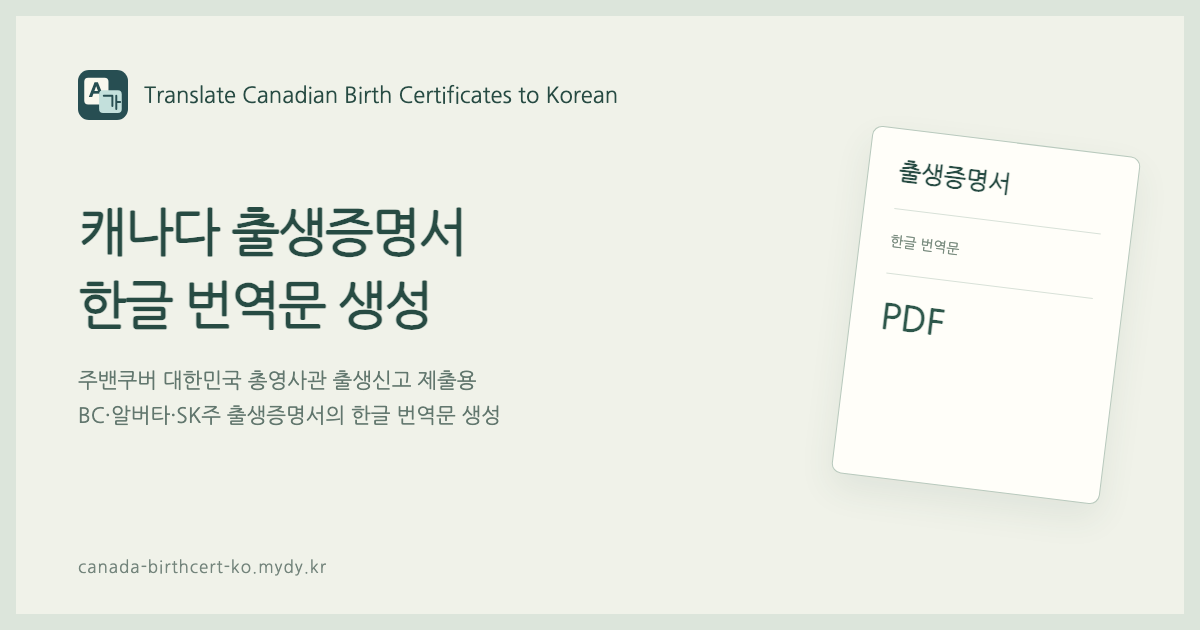
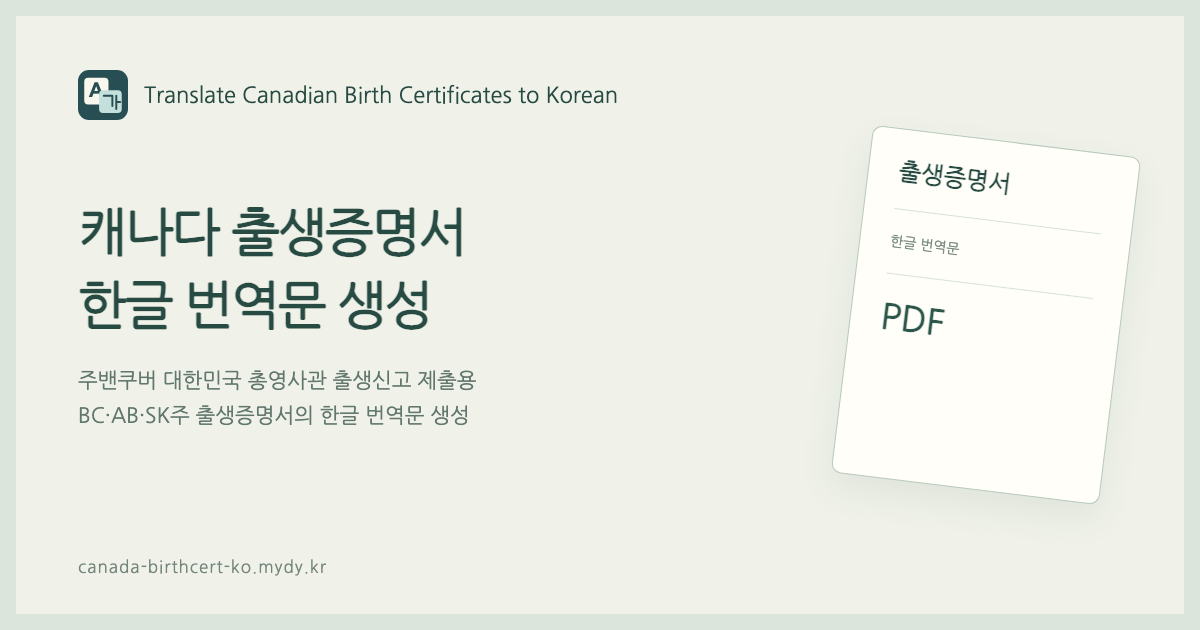
Use consistent province abbreviations in sharing metadata

Changed region(s): [[0.0925, 0.6333, 0.4317, 0.6937]]

diff --git a/index.html b/index.html
@@ -3,7 +3,7 @@
 <head>
   <meta charset="UTF-8">
   <meta name="viewport" content="width=device-width,initial-scale=1">
-  <title>캐나다 출생증명서 번역 | BC·알버타·SK 한글 번역문 PDF</title>
+  <title>캐나다 출생증명서 번역 | BC·AB·SK 한글 번역문 PDF</title>
   <meta name="description" content="주밴쿠버 대한민국 총영사관에 출생신고할 때 제출하는 캐나다 브리티시컬럼비아(BC)·알버타(AB)·서스캐처원(SK)주 출생증명서 한글 번역문 생성 사이트입니다. 한국어로 입력하고 무료로 PDF를 저장하세요.">
   <link rel="canonical" href="https://canada-birthcert-ko.mydy.kr/">
   <meta name="robots" content="index,follow,max-image-preview:large">
@@ -13,27 +13,27 @@
   <meta property="og:type" content="website">
   <meta property="og:locale" content="ko_KR">
   <meta property="og:site_name" content="Canada Birth KO">
-  <meta property="og:title" content="캐나다 출생증명서 번역 | BC·알버타·SK 한글 번역문 PDF">
+  <meta property="og:title" content="캐나다 출생증명서 번역 | BC·AB·SK 한글 번역문 PDF">
   <meta property="og:description" content="주밴쿠버 대한민국 총영사관에 출생신고할 때 제출하는 캐나다 브리티시컬럼비아(BC)·알버타(AB)·서스캐처원(SK)주 출생증명서 한글 번역문 생성 사이트입니다. 한국어로 입력하고 무료로 PDF를 저장하세요.">
   <meta property="og:url" content="https://canada-birthcert-ko.mydy.kr/">
-  <meta property="og:image" content="https://canada-birthcert-ko.mydy.kr/og-image.png?v=20261105">
+  <meta property="og:image" content="https://canada-birthcert-ko.mydy.kr/og-image.png?v=20261105-2">
   <meta property="og:image:type" content="image/png">
   <meta property="og:image:width" content="1200">
   <meta property="og:image:height" content="630">
-  <meta property="og:image:alt" content="BC·알버타·SK 캐나다 출생증명서 한글 번역문 생성 — 주밴쿠버 대한민국 총영사관 제출용">
+  <meta property="og:image:alt" content="BC·AB·SK 캐나다 출생증명서 한글 번역문 생성 — 주밴쿠버 대한민국 총영사관 제출용">
   <meta name="twitter:card" content="summary_large_image">
-  <meta name="twitter:title" content="캐나다 출생증명서 번역 | BC·알버타·SK 한글 번역문 PDF">
+  <meta name="twitter:title" content="캐나다 출생증명서 번역 | BC·AB·SK 한글 번역문 PDF">
   <meta name="twitter:description" content="주밴쿠버 대한민국 총영사관에 출생신고할 때 제출하는 캐나다 브리티시컬럼비아(BC)·알버타(AB)·서스캐처원(SK)주 출생증명서 한글 번역문 생성 사이트입니다. 한국어로 입력하고 무료로 PDF를 저장하세요.">
-  <meta name="twitter:image" content="https://canada-birthcert-ko.mydy.kr/og-image.png?v=20261105">
-  <meta name="twitter:image:alt" content="BC·알버타·SK 캐나다 출생증명서 한글 번역문 생성 — 주밴쿠버 대한민국 총영사관 제출용">
+  <meta name="twitter:image" content="https://canada-birthcert-ko.mydy.kr/og-image.png?v=20261105-2">
+  <meta name="twitter:image:alt" content="BC·AB·SK 캐나다 출생증명서 한글 번역문 생성 — 주밴쿠버 대한민국 총영사관 제출용">
   <script type="application/ld+json">
-  {"@context":"https://schema.org","@type":"WebApplication","name":"캐나다 출생증명서 한글 번역문 생성","alternateName":"Canada Birth KO","url":"https://canada-birthcert-ko.mydy.kr/","description":"주밴쿠버 대한민국 총영사관에 출생신고할 때 제출하는 캐나다 브리티시컬럼비아(BC)·알버타(AB)·서스캐처원(SK)주 출생증명서 한글 번역문 생성 사이트입니다. 한국어로 입력하고 무료로 PDF를 저장하세요.","applicationCategory":"UtilitiesApplication","operatingSystem":"Any","inLanguage":"ko","browserRequirements":"Requires JavaScript","image":"https://canada-birthcert-ko.mydy.kr/og-image.png?v=20261105","author":{"@type":"Person","name":"Daeyeol Ryu","url":"https://yoobato.com"},"isAccessibleForFree":true,"featureList":["BC·알버타·SK 출생증명서 한글 번역문 작성","브라우저 내 PDF 생성","Letter PDF 미리보기·다운로드"]}
+  {"@context":"https://schema.org","@type":"WebApplication","name":"캐나다 출생증명서 한글 번역문 생성","alternateName":"Canada Birth KO","url":"https://canada-birthcert-ko.mydy.kr/","description":"주밴쿠버 대한민국 총영사관에 출생신고할 때 제출하는 캐나다 브리티시컬럼비아(BC)·알버타(AB)·서스캐처원(SK)주 출생증명서 한글 번역문 생성 사이트입니다. 한국어로 입력하고 무료로 PDF를 저장하세요.","applicationCategory":"UtilitiesApplication","operatingSystem":"Any","inLanguage":"ko","browserRequirements":"Requires JavaScript","image":"https://canada-birthcert-ko.mydy.kr/og-image.png?v=20261105-2","author":{"@type":"Person","name":"Daeyeol Ryu","url":"https://yoobato.com"},"isAccessibleForFree":true,"featureList":["BC·AB·SK 출생증명서 한글 번역문 작성","브라우저 내 PDF 생성","Letter PDF 미리보기·다운로드"]}
   </script>
 </head>
 <body>
   <div id="app">
     <h1>캐나다 출생증명서 한글 번역문 생성</h1>
-    <p>캐나다 BC·알버타·SK주 출생증명서의 내용을 한글로 입력하고 Letter 크기의 번역문 PDF로 저장하는 도구입니다. 입력값과 PDF는 브라우저 안에서 처리됩니다.</p>
+    <p>캐나다 BC·AB·SK주 출생증명서의 내용을 한글로 입력하고 Letter 크기의 번역문 PDF로 저장하는 도구입니다. 입력값과 PDF는 브라우저 안에서 처리됩니다.</p>
     <p>정부나 영사관이 운영하는 공식 서비스가 아닙니다. 제출 전 원본과 번역문을 대조해 주세요.</p>
     <noscript><p>번역문 작성과 PDF 생성에는 JavaScript가 필요합니다. 브라우저에서 JavaScript를 켜 주세요.</p></noscript>
   </div>
@@ -43,7 +43,7 @@
   <details><summary>가지고 있는 출생증명서와 입력 양식이 다르면 어떻게 하나요?</summary><p>발급 시기나 증명서 종류에 따라 항목과 배치가 다를 수 있습니다. <a href="mailto:yoobato@gmail.com">yoobato@gmail.com</a>으로 발급지역과 다른 부분을 알려 주세요. 확인 후 양식을 보완하겠습니다. 사진을 보내실 때는 성명·생년월일·등록번호·서명·바코드 등 개인정보를 가리고 보내 주세요.</p></details>
   <details><summary>실제로 출생신고에 사용한 사례가 있나요?</summary><p>네. 개발자가 이 서비스로 자녀의 알버타주 출생증명서 한글 번역문을 작성해 제출했고, 정상적으로 출생신고를 마쳤습니다.</p></details>
   <details><summary>영문 출생증명서를 자동 번역하나요?</summary><p>아닙니다. 사용자가 원본을 보며 성명과 출생지를 한글로 입력하면, 입력한 내용을 출생증명서 한글 번역문 서식에 배치합니다.</p></details>
-  <details><summary>샘플 번역문을 볼 수 있나요?</summary><p>네. 가상 정보를 미리 채운 BC·알버타·SK주 샘플 번역문을 바로 확인할 수 있습니다. 모든 정보는 예시이며 실제 제출용이 아닙니다. 작성 중인 입력 내용에는 영향을 주지 않습니다.</p><div class="sample-links"><a href="/samples/bc-sample.pdf?v=3" target="_blank" rel="noopener noreferrer">BC주 샘플 번역문 보기 (PDF)</a><a href="/samples/alberta-sample.pdf?v=3" target="_blank" rel="noopener noreferrer">알버타주 샘플 번역문 보기 (PDF)</a><a href="/samples/sk-sample.pdf?v=5" target="_blank" rel="noopener noreferrer">SK주 샘플 번역문 보기 (PDF)</a></div></details>
+  <details><summary>샘플 번역문을 볼 수 있나요?</summary><p>네. 가상 정보를 미리 채운 BC·AB·SK주 샘플 번역문을 바로 확인할 수 있습니다. 모든 정보는 예시이며 실제 제출용이 아닙니다. 작성 중인 입력 내용에는 영향을 주지 않습니다.</p><div class="sample-links"><a href="/samples/bc-sample.pdf?v=3" target="_blank" rel="noopener noreferrer">BC주 샘플 번역문 보기 (PDF)</a><a href="/samples/alberta-sample.pdf?v=3" target="_blank" rel="noopener noreferrer">알버타주 샘플 번역문 보기 (PDF)</a><a href="/samples/sk-sample.pdf?v=5" target="_blank" rel="noopener noreferrer">SK주 샘플 번역문 보기 (PDF)</a></div></details>
   <details><summary>비용이나 회원가입이 필요한가요?</summary><p>회원가입 없이 무료로 미리보기와 PDF 다운로드를 이용할 수 있습니다. 사이트에는 배너 광고가 표시되며 광고 클릭은 다운로드 조건이 아닙니다.</p></details>
   <details><summary>입력한 아이와 부모 정보는 저장되나요?</summary><p>양식 입력값과 PDF 내용은 서버에 보내거나 자동 저장하지 않습니다. 현재 탭에서만 처리하며 새로고침하면 입력값이 사라집니다. 방문·미리보기·다운로드 통계와 광고에는 별도의 쿠키 및 기본 접속 정보가 사용될 수 있습니다.</p></details>
   <details><summary>출력한 번역문에는 무엇을 확인해야 하나요?</summary><p>원본과 성명·날짜·부모 정보·등록번호를 대조하세요. Letter 용지로 출력한 뒤 하단 번역자 이름 옆 (인)에 직접 서명할 수 있습니다. 제출 서류와 접수 가능 여부는 <a href="https://www.mofa.go.kr/ca-vancouver-ko/brd/m_4576/view.do?seq=611226" target="_blank" rel="noopener noreferrer">주밴쿠버 대한민국 총영사관의 최신 출생신고 안내</a>를 확인하세요.</p></details>

diff --git a/tests/analytics.test.js b/tests/analytics.test.js
@@ -19,7 +19,7 @@ test('only fixed telemetry is queued; user data and arbitrary event names are ex
   const commands=win.dataLayer.map(a=>Array.from(a));
   assert.deepEqual(commands.filter(a=>a[0]==='event').map(a=>a[1]),['page_view','translation_preview','pdf_download','preview_pdf_download','support_click','pdf_download']);
   assert.deepEqual(commands.filter(a=>a[0]==='event').map(a=>a[2].certificate_region),['bc','ab','ab','bc','bc','sk']);
-  assert.equal(commands.find(a=>a[0]==='config')[2].page_title,'캐나다 출생증명서 번역 | BC·알버타·SK 한글 번역문 PDF');
+  assert.equal(commands.find(a=>a[0]==='config')[2].page_title,'캐나다 출생증명서 번역 | BC·AB·SK 한글 번역문 PDF');
   assert.ok(!JSON.stringify(commands).includes('PRIVATE'));
   assert.equal(commands.find(a=>a[0]==='config')[2].send_page_view,false);
   assert.equal(commands.find(a=>a[0]==='config')[2].allow_google_signals,false);

diff --git a/src/analytics.js b/src/analytics.js
@@ -28,7 +28,7 @@ export function createAnalytics(win, doc, enabled) {
   const metadata = {
     page_location: PAGE,
     page_referrer: '',
-    page_title: '캐나다 출생증명서 번역 | BC·알버타·SK 한글 번역문 PDF',
+    page_title: '캐나다 출생증명서 번역 | BC·AB·SK 한글 번역문 PDF',
     ...campaignFor(win.location?.href),
   };
   gtag('config', MEASUREMENT_ID, {

diff --git a/README.md b/README.md
@@ -4,7 +4,7 @@
 
 **[서비스 이용하기](https://canada-birthcert-ko.mydy.kr/)** · [오류 제보](https://github.com/yoobato/mydy-canada-birthcert-ko/issues)
 
-![캐나다 BC·알버타·SK 출생증명서 한글 번역문 생성](public/og-image.png)
+![캐나다 BC·AB·SK 출생증명서 한글 번역문 생성](public/og-image.png)
 
 ## 지원 범위
 
